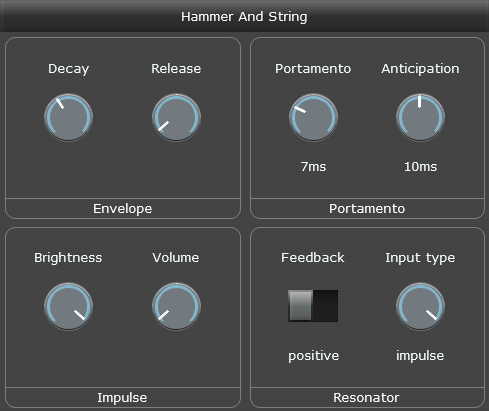
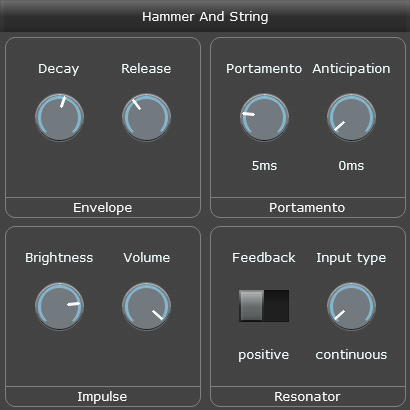
Add README

diff --git a/index.html b/index.html
@@ -234,6 +234,7 @@ a[href] code {
 <li>Panalysis - visualise and manipulate the stereo field of the audio</li>
 <li>Learning Sampler - a basic sampler that records incoming audio and plays it back</li>
 <li>Hammer And String - a monophonic string resonator/synth with portamento</li>
+<li>Hammer And Chord - a polyphonic string resonator/synth</li>
 </ul>
 <p>Presets (RPL) for these effects can be downloaded from GitHub.</p>
 <h2 id="padsynth">PadSynth</h2><div class="section section2">
@@ -292,7 +293,10 @@ a[href] code {
 <p>Samples are scaled according to velocity - if you record at velocity 100 and then play back at velocity 110, the output will be louder than the original input.</p>
 <p>It currently does handle sample-rate changes.</p>
 </div><h2 id="hammer-and-string">Hammer And String</h2><div class="section section2">
-<p>This effect is a monophonic string resonator.  It can provide its own impulse (to act as a synth) as well as resonating the incoming audio.  To produce a legato effect for the synth, provide a note with low velocity to change the resonator pitch without an audible impulse.  (<a href="audio-demos/hammer-and-string.mp3">audio demo</a>)</p>
-<p>The portamento affects how quickly the resonator changes pitch.  The &quot;Anticipation&quot; control starts the portamento before the actual note (this adds latency), which can give more natural movement.</p>
+<p>This effect is a monophonic string resonator.  It can provide its own impulse (to act as a synth) as well as resonating the incoming audio.  (<a href="audio-demos/hammer-and-string.mp3">audio demo</a>)</p>
+<p>The portamento affects how quickly the resonator changes pitch.  The &quot;Anticipation&quot; control starts the portamento before the actual note (this adds latency), which can give more natural movement.  To produce a legato effect for the synth, provide a note with low velocity to change the resonator pitch without an audible impulse.</p>
 <p><img src="Hammer And String.png" alt="screenshot"></p>
+</div><h2 id="hammer-and-chord">Hammer And Chord</h2><div class="section section2">
+<p>This effect is a polyphonic string resonator.  It can provide its own impulse (to act as a synth) as well as resonating the incoming audio (e.g. a drum loop).  (<a href="audio-demos/hammer-and-chord.mp3">audio demo</a>)</p>
+<p><img src="Hammer And Chord.png" alt="screenshot"></p>
 </div></div></div><script></script></body></html>

diff --git a/README.md b/README.md
@@ -14,6 +14,7 @@ Download them from [GitHub](https://github.com/geraintluff/jsfx) or on [ReaPack]
 * Panalysis - visualise and manipulate the stereo field of the audio
 * Learning Sampler - a basic sampler that records incoming audio and plays it back
 * Hammer And String - a monophonic string resonator/synth with portamento
+* Hammer And Chord - a polyphonic string resonator/synth
 
 Presets (RPL) for these effects can be downloaded from GitHub.
 
@@ -123,8 +124,14 @@ It currently does handle sample-rate changes.
 
 ## Hammer And String
 
-This effect is a monophonic string resonator.  It can provide its own impulse (to act as a synth) as well as resonating the incoming audio.  To produce a legato effect for the synth, provide a note with low velocity to change the resonator pitch without an audible impulse.  ([audio demo](audio-demos/hammer-and-string.mp3))
+This effect is a monophonic string resonator.  It can provide its own impulse (to act as a synth) as well as resonating the incoming audio.  ([audio demo](audio-demos/hammer-and-string.mp3))
 
-The portamento affects how quickly the resonator changes pitch.  The "Anticipation" control starts the portamento before the actual note (this adds latency), which can give more natural movement.
+The portamento affects how quickly the resonator changes pitch.  The "Anticipation" control starts the portamento before the actual note (this adds latency), which can give more natural movement.  To produce a legato effect for the synth, provide a note with low velocity to change the resonator pitch without an audible impulse.
 
 ![screenshot](Hammer And String.png)
+
+## Hammer And Chord
+
+This effect is a polyphonic string resonator.  It can provide its own impulse (to act as a synth) as well as resonating the incoming audio (e.g. a drum loop).  ([audio demo](audio-demos/hammer-and-chord.mp3))
+
+![screenshot](Hammer And Chord.png)
